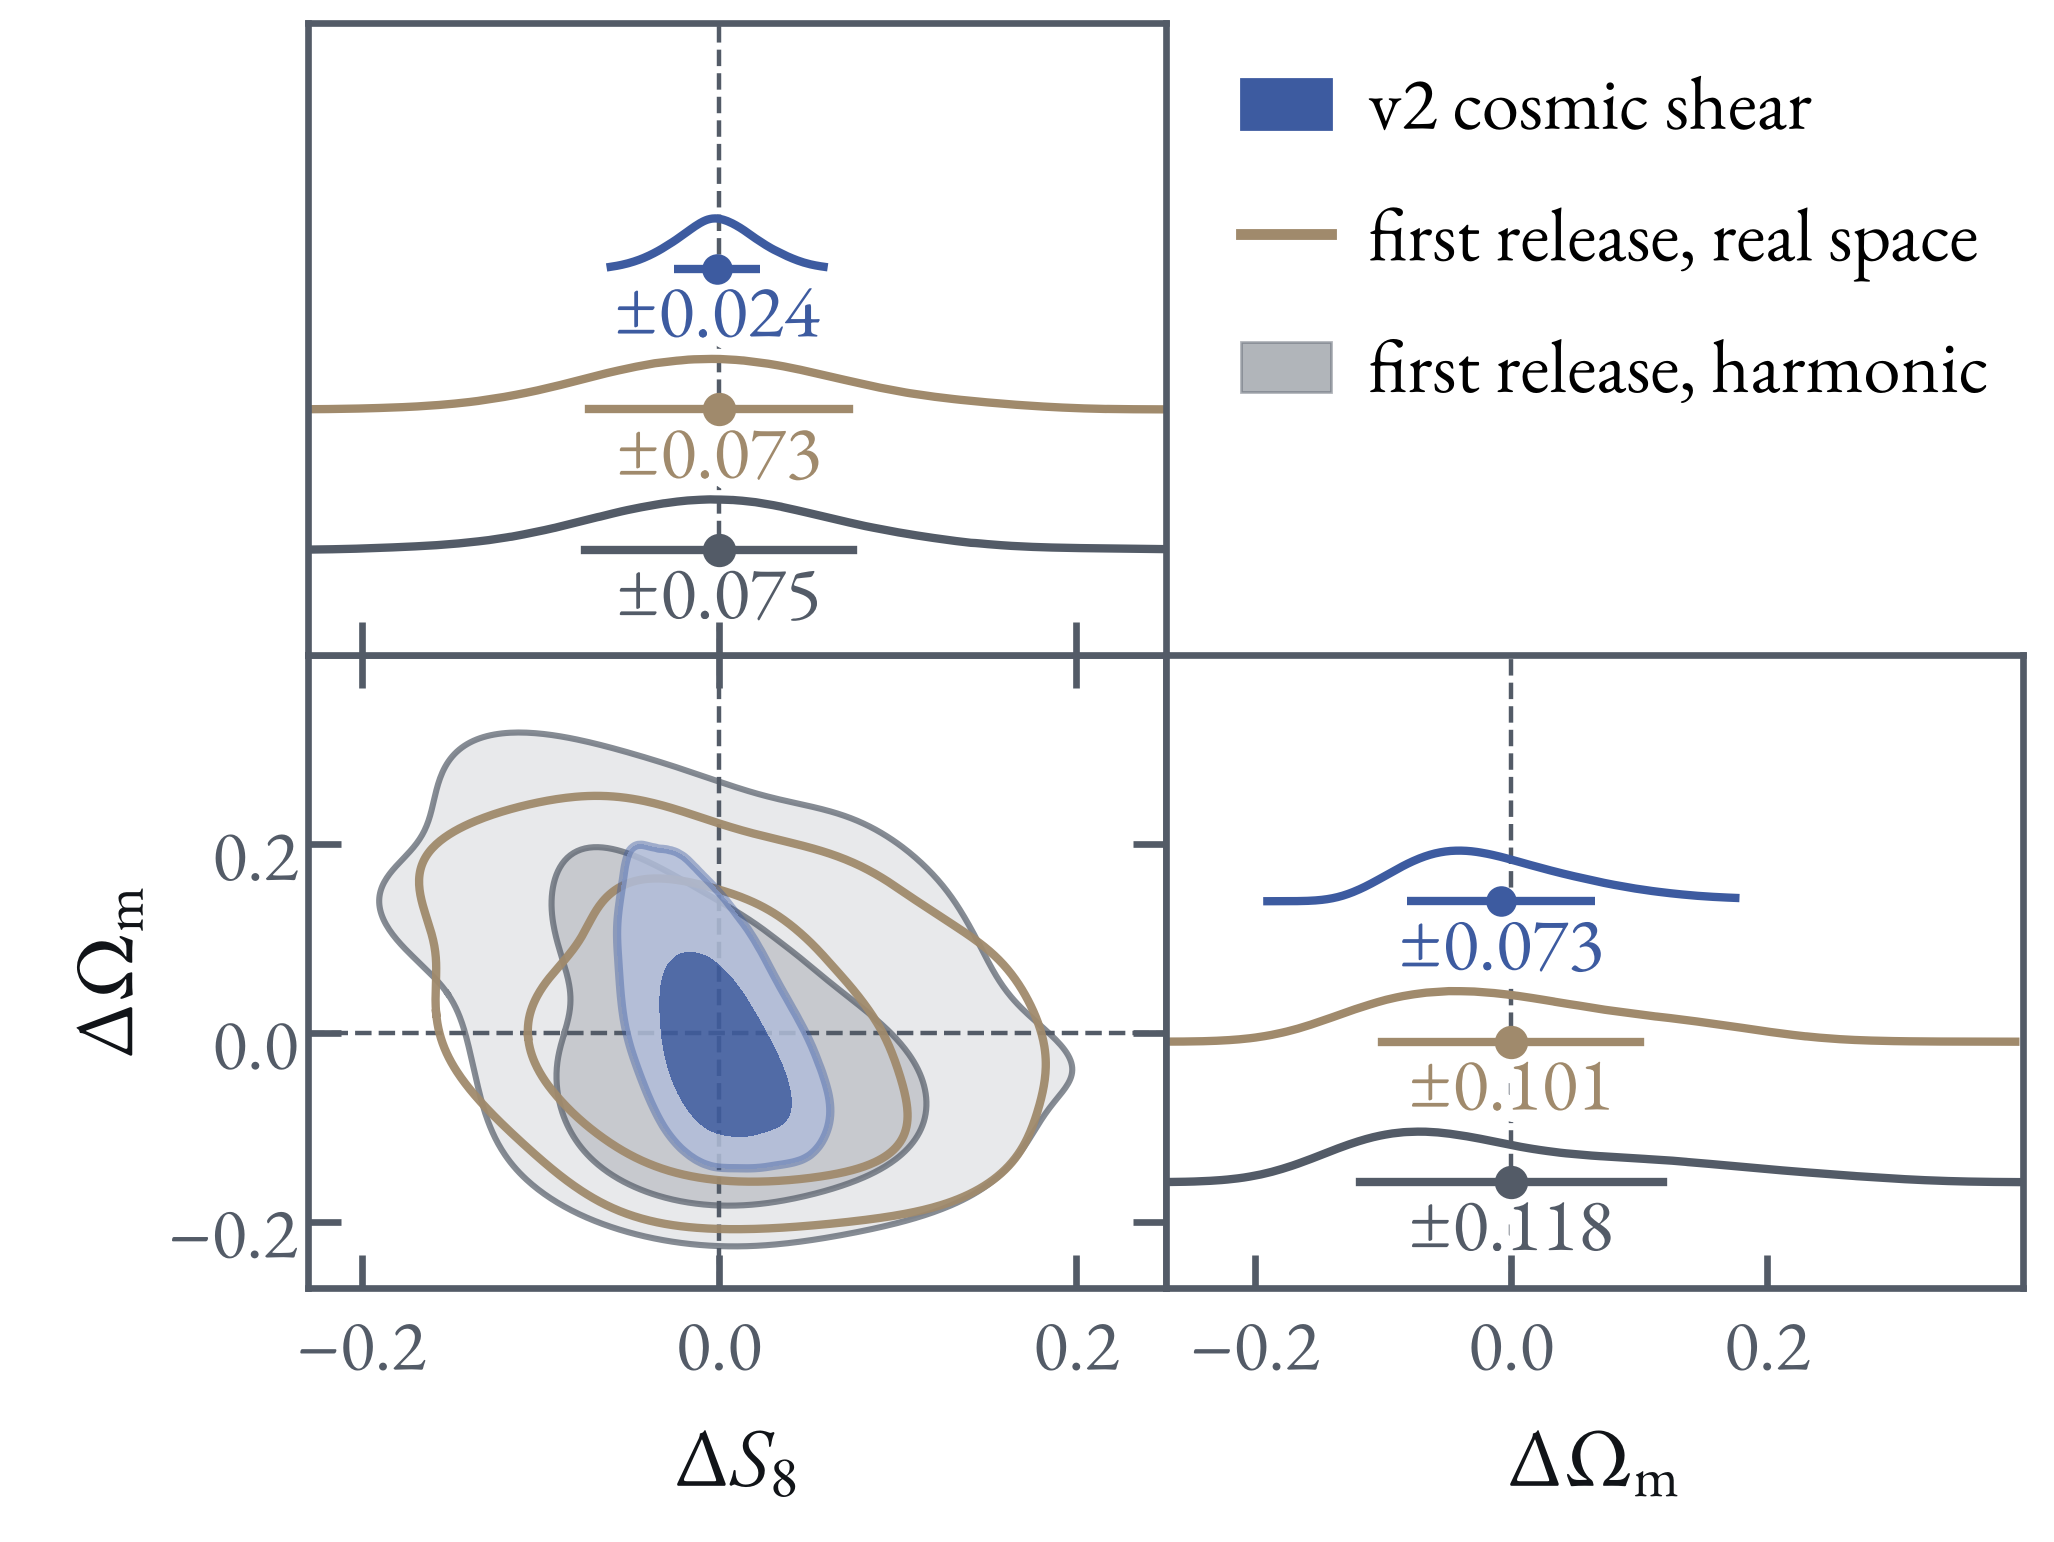
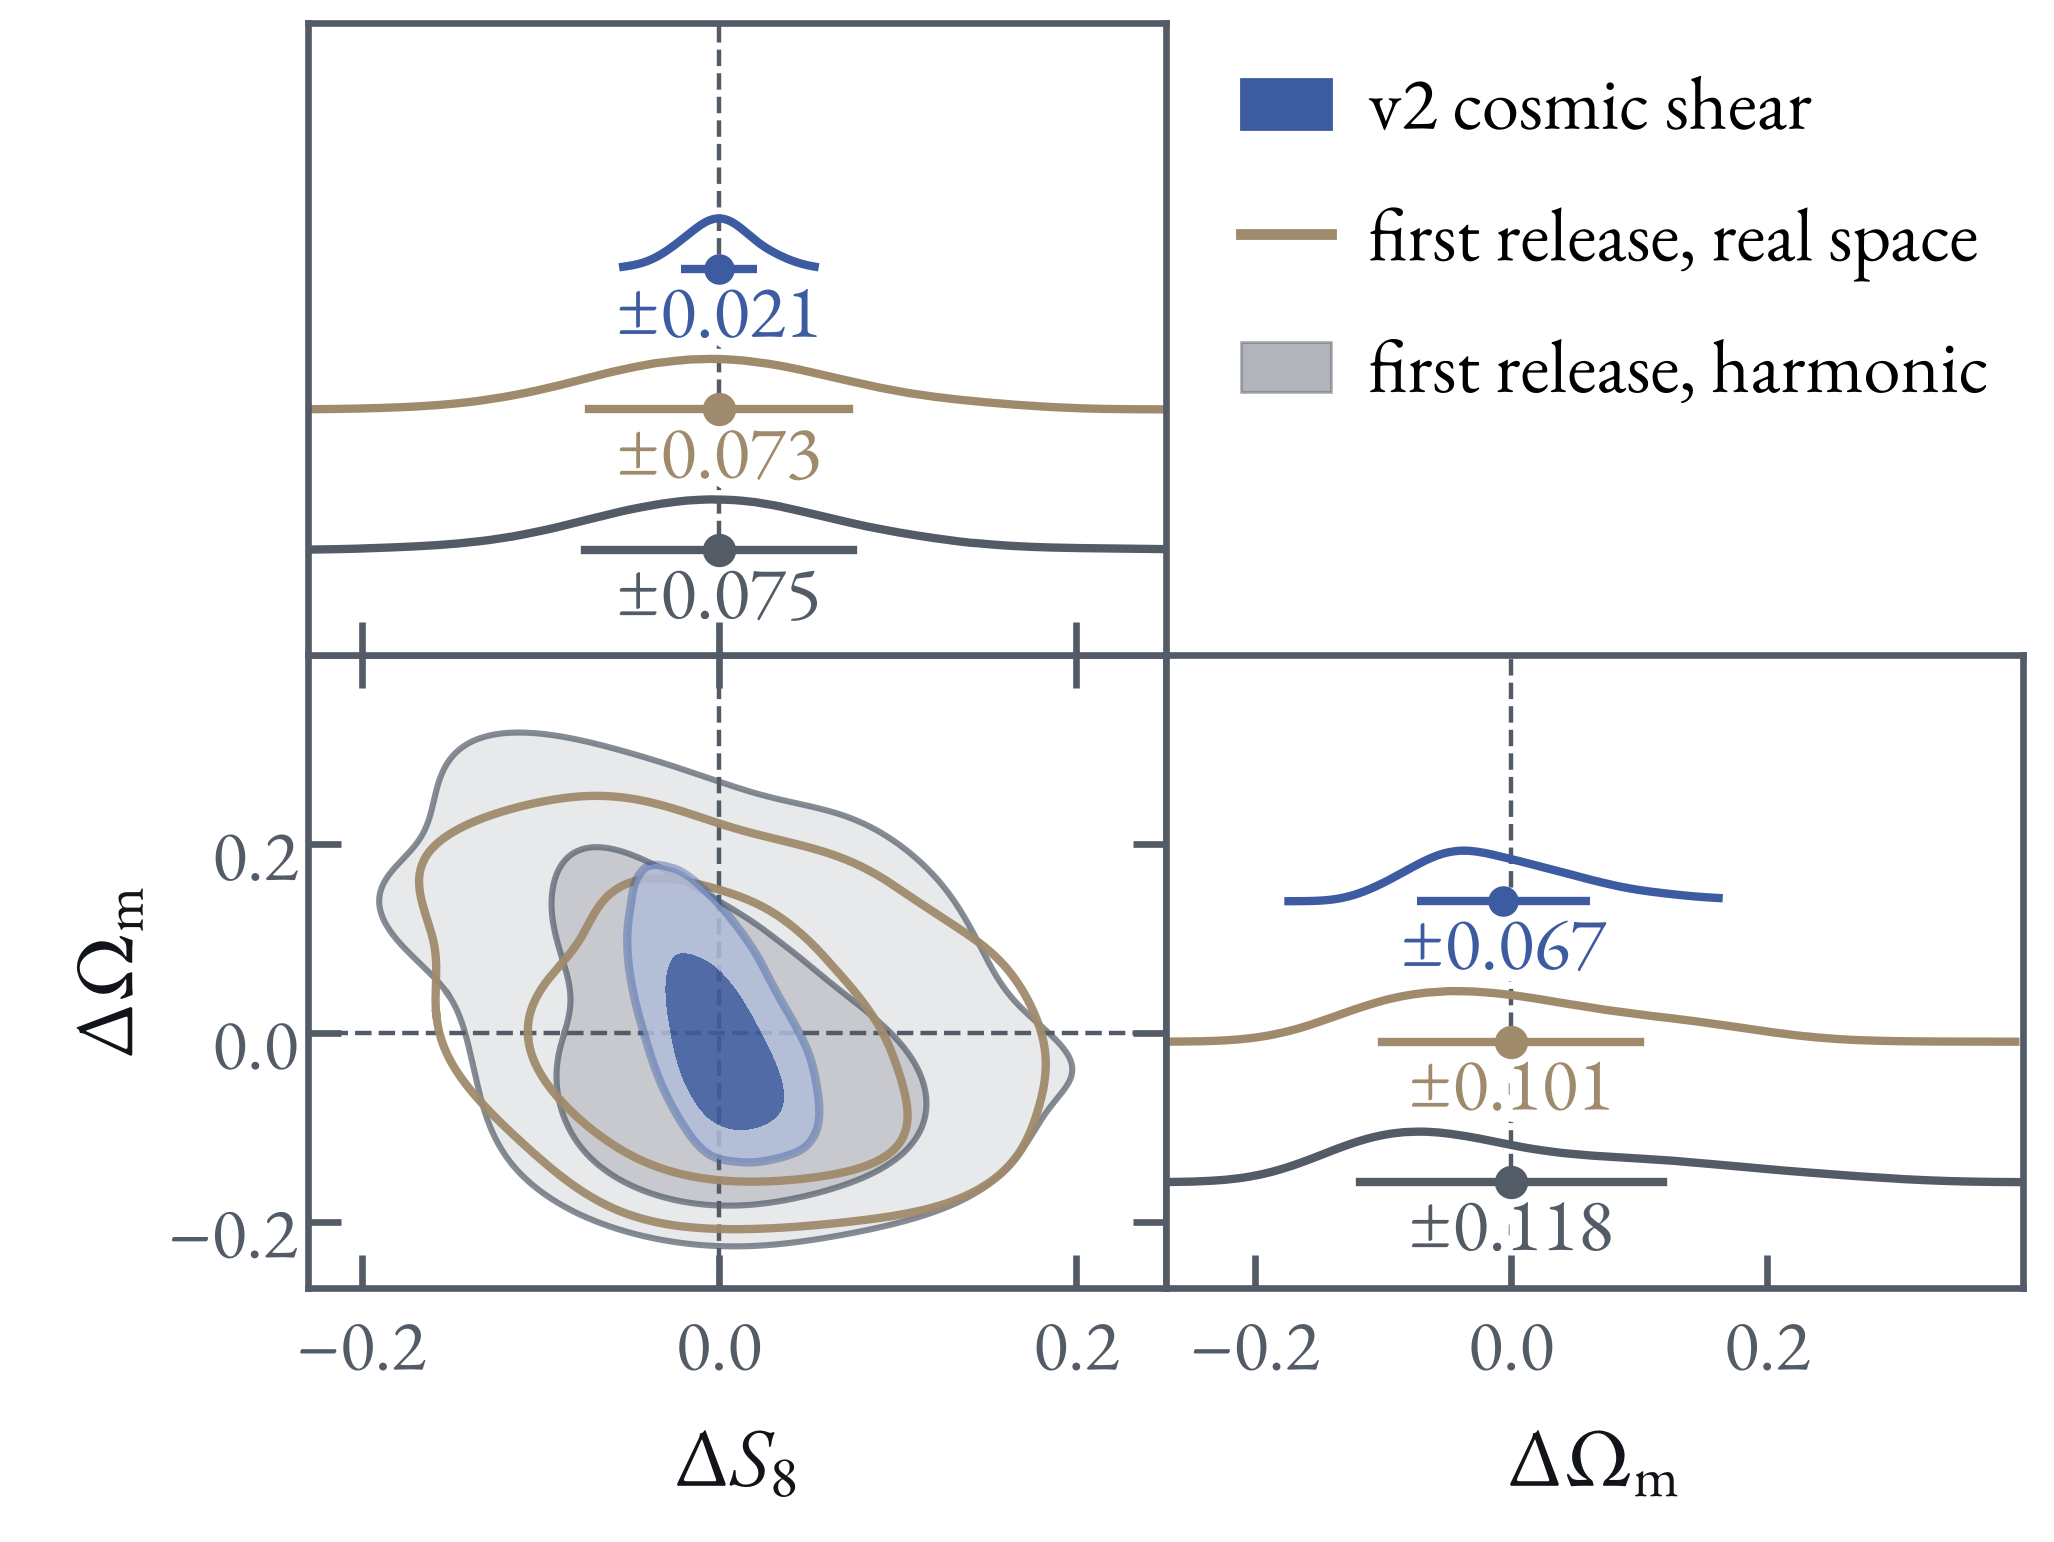
ICE unions-forecast: the release's n(z) uncertainties as the source-redshift prior (2.0 % on S8); bullets say so
Claude-Session: https://claude.ai/code/session_01JK7o9HFnQ18NCbHtympTx9

diff --git a/2611_ICE_Barcelona/slides/unions-forecast.html b/2611_ICE_Barcelona/slides/unions-forecast.html
@@ -1,5 +1,5 @@
 <section data-layout="figure-text" data-split="60">
-  <h2>UNIONS 3×2pt is forecast to measure $S_8$ to 2.4 %</h2>
+  <h2>UNIONS 3×2pt is forecast to measure $S_8$ to 2.0 %</h2>
   <figure>
     <img src="images/ice_unions_forecast_0.png" alt="S8 against Omega_m for the first UNIONS release, in harmonic space and in real space: two wide contours of similar size, about 0.07 wide in S8">
     <img class="fragment" data-fragment-index="1" src="images/ice_unions_forecast_1.png" alt="The forecast for UNIONS v2 tomographic cosmic shear drawn over them, about three times narrower in S8">
@@ -8,14 +8,14 @@
   <div class="text">
     <ul>
       <li>assuming 100 % of shear weight used for tomography</li>
-      <li>relatively conservative priors</li>
+      <li>optimistic $n(z)$ errors and conservative baryon prior</li>
     </ul>
   </div>
   <aside class="notes">
     <ul class="skim">
       <li><strong>Contours</strong> — 68 % and 95 % of chains run on the model prediction itself: no noise is added to the data vector, so the posterior sits on the input cosmology ($S_8=0.839$, $\Omega_\mathrm{m}=0.319$, the origin of both axes) and its width is the expected error, which the covariance sets. No data vector is measured or looked at. Four tomographic source bins on 4,582 deg², alone and then with the five SPHEREx all-sky lens bins at $z=0.05$–$0.55$.</li>
-      <li><strong>Drawn</strong> — the four source bins carry the whole v2 sample's shear weight: each bin's density is multiplied by 1/0.54, so $n_{\rm eff}$ sums to 7.6 arcmin⁻² instead of 4.08, with the same $n(z)$ per bin. Shear alone $\sigma(S_8)=0.0239$, $\sigma(\Omega_\mathrm{m})=0.073$, $\sigma(\sigma_8)=0.107$. 3×2pt 0.0200, 0.0352, 0.058, which is 2.4 % on $S_8$. One sampler seed, 16,000 effective samples each (26 November, fir).</li>
-      <li><strong>With the bins' own densities</strong> — every other number in these notes: shear alone $\sigma(S_8)=0.0278$, $\sigma(\Omega_\mathrm{m})=0.098$, $\sigma(\sigma_8)=0.127$. 3×2pt 0.0218, 0.0379, 0.061 (2.6 %). A second sampler seed gives 0.0273 and 0.098, and 0.0215 and 0.0381, with 16,000 effective samples each. The $\Omega_\mathrm{m}$–$S_8$ figure of merit ($1/\sqrt{\det C}$) rises by a factor 3.0. The shear-only $\Omega_\mathrm{m}$ width is largely the prior's, so the gain on $\Omega_\mathrm{m}$ depends on it: $h<0.91$, $\ln(10^{10}A_s)<3.66$ and $0.085<\Omega_c h^2<0.2$ all cut that posterior. They do not cut the 3×2pt one.</li>
+      <li><strong>Drawn</strong> — the four source bins carry the whole v2 sample's shear weight: each bin's density is multiplied by 1/0.54, so $n_{\rm eff}$ sums to 7.6 arcmin⁻² instead of 4.08, with the same $n(z)$ per bin. The prior on each source bin's mean redshift is the release's own uncertainty from its 2,000 $n(z)$ realizations (0.010, 0.006, 0.011, 0.012), which the release calls a floor: one calibration field, no variance between fields. Shear alone $\sigma(S_8)=0.0215$, $\sigma(\Omega_\mathrm{m})=0.067$, $\sigma(\sigma_8)=0.099$. 3×2pt 0.0171, 0.0340, 0.055, which is 2.0 % on $S_8$. With the 0.024 redshift prior and the whole shear weight: shear alone 0.0239, 0.073, 0.107, and 3×2pt 0.0200, 0.0352, 0.058 (2.4 %). One sampler seed, 16,000 effective samples each (26 November, fir).</li>
+      <li><strong>With the bins' own densities and the 0.024 redshift prior</strong> — every other number in these notes: shear alone $\sigma(S_8)=0.0278$, $\sigma(\Omega_\mathrm{m})=0.098$, $\sigma(\sigma_8)=0.127$. 3×2pt 0.0218, 0.0379, 0.061 (2.6 %). A second sampler seed gives 0.0273 and 0.098, and 0.0215 and 0.0381, with 16,000 effective samples each. The $\Omega_\mathrm{m}$–$S_8$ figure of merit ($1/\sqrt{\det C}$) rises by a factor 3.0. The shear-only $\Omega_\mathrm{m}$ width is largely the prior's, so the gain on $\Omega_\mathrm{m}$ depends on it: $h<0.91$, $\ln(10^{10}A_s)<3.66$ and $0.085<\Omega_c h^2<0.2$ all cut that posterior. They do not cut the 3×2pt one.</li>
       <li><strong>With noise</strong> — twenty GLASS mocks (lognormal matter shells, lensing, intrinsic alignments, Poisson-sampled lenses, shape noise) measured with the same masked estimator and fitted with the same chain. The median width is 0.0220 on $S_8$ and 0.0386 on $\Omega_\mathrm{m}$, as forecast. The posterior means average $S_8=0.844\pm0.003$ and $\Omega_\mathrm{m}=0.321\pm0.009$ and scatter by 0.014 and 0.038; no mock is further than 1.7σ from the input. On one sky the $\Omega_\mathrm{m}$ width ranges from 0.030 to 0.060.</li>
       <li><strong>Scale cuts</strong> — shear uses $300<\ell<1600$, the cut on which the first release has B-modes consistent with zero. At $20<\ell<2000$ the 3×2pt gives 0.0211 and 0.0330, so its width changes by 3 % on $S_8$ and 13 % on $\Omega_\mathrm{m}$; the lenses already supply the large-scale information. Shear alone at that cut gives 0.0235 and 0.054, and at $100<\ell<1600$ 0.0274 and 0.070 (3×2pt 0.0214 and 0.035).</li>
       <li><strong>Limits on $S_8$</strong> — baryons first: with the feedback parameter $\log T_{\rm AGN}$ fixed, $\sigma(S_8)$ is 0.016 instead of 0.0218. Its prior is flat over the emulator's whole range (7.3–8.5) and the chain fills it, so 2.6 % is conservative there. Fixing intrinsic alignments, shear calibration, redshift shifts and magnification instead, with baryons and bias still free, gives 0.016. Most of that is source redshifts: the release's own n(z) realizations (0.006–0.012 on each bin's mean, against our 0.024) give 0.019. Halving the shear-calibration prior gives 0.021, and a Planck-width $n_s$ prior leaves the width unchanged.</li>
@@ -38,7 +38,7 @@
     <p>Calum Murray's Fisher code, given these inputs and priors, returns 0.0208 on $S_8$ and 0.0326 on $\Omega_\mathrm{m}$ (his review of 25 November), against our Fisher 0.0195 and 0.0334; its June headline of 0.0125 and 0.0152 fixed $h$, $n_s$ and $\Omega_b$ and used different sources, cuts and baryons. The earlier GLASS mock chain in real space, with stand-in lens bins and no nuisances, gave 0.0093 and 0.021. The Fisher forecast made for choosing the v2 n(z), cosmic shear alone with redshift priors near 0.01–0.02, gives 0.0113–0.0132 on $S_8$; its baryon treatment and scale range were not checked.</p>
     </details>
     <details><summary>Sources</summary>
-    <p>Figure 2611_ICE_Barcelona/make_unions_forecast.py; the first release from unions_release_contours.json, made by digitize_unions_release.py from the arXiv source of 2605.13543; summary in unions_forecast.json (v092f100_* are the chains drawn, v092f_* the same with the bins' own densities, glass_* the GLASS mocks, mockg_* the Gaussian skies, unprefixed names the Leonardo set); chains of 25 November on fir, JAX CLOE likelihood with nested sampling, 10 minutes on 64 threads for the 3×2pt and 3 for shear alone. Code and recipe in the felt fiber unions-3x2pt-forecast, code/README.</p>
+    <p>Figure 2611_ICE_Barcelona/make_unions_forecast.py; the first release from unions_release_contours.json, made by digitize_unions_release.py from the arXiv source of 2605.13543; summary in unions_forecast.json (v092f100_*_dzrel_* are the chains drawn, v092f100_*_hi_* the same with the 0.024 redshift prior, v092f_* the same with the bins' own densities, glass_* the GLASS mocks, mockg_* the Gaussian skies, unprefixed names the Leonardo set); chains of 25 November on fir, JAX CLOE likelihood with nested sampling, 10 minutes on 64 threads for the 3×2pt and 3 for shear alone. Code and recipe in the felt fiber unions-3x2pt-forecast, code/README.</p>
     </details>
   </aside>
 </section>

diff --git a/2611_ICE_Barcelona/make_unions_forecast.py b/2611_ICE_Barcelona/make_unions_forecast.py
@@ -1,9 +1,10 @@
 """UNIONS v2 forecast in the (Omega_m, S8) plane: cosmic shear alone, then the 3x2pt with the LSx lenses.
 
 Reads the nested-sampling posteriors (slim_fir.npz: derived parameters and weights of each chain). The two drawn are
-chains on the model prediction with no noise added, run on fir (~/scratch/ufc there): v092f100_first_LL_hi_s1 and
-v092f100_first_3x2_hi_s1, in which the four source bins carry the whole v2 sample's shear weight (their densities
-times 1/0.54, as the slide's first bullet says). The v092f_* chains have the bins' own densities. Names without a prefix are the 25 November chains from Leonardo, mockg_* chains on noisy Gaussian
+chains on the model prediction with no noise added, run on fir (~/scratch/ufc there): v092f100_first_LL_dzrel_s1 and
+v092f100_first_3x2_dzrel_s1, in which the four source bins carry the whole v2 sample's shear weight (their densities
+times 1/0.54) and the prior on each bin's mean redshift is the release's own n(z) uncertainty, as the slide's bullets
+say. v092f100_*_hi_* keep the 0.024 redshift prior; the v092f_* chains also have the bins' own densities. Names without a prefix are the 25 November chains from Leonardo, mockg_* chains on noisy Gaussian
 skies and glass_* chains on GLASS mocks.
 The contours are drawn relative to the input cosmology. Under them are the first release's posteriors in harmonic
 and real space (unions_release_contours.json, read from the paper's figure by digitize_unions_release.py), each shifted
@@ -29,7 +30,7 @@ SHEAR, JOINT = '#3D5BA0', '#A8403A'
 TRUTH = dict(Omega_m=0.3190, S8=0.8387)
 RELEASES = [('harmonic', 'first release, harmonic', style.MUTED, True),
             ('real', 'first release, real space', '#A08A6C', False)]
-LAYERS = [('v092f100_first_LL_hi_s1', 'v2 cosmic shear', SHEAR), ('v092f100_first_3x2_hi_s1', 'v2 3×2pt', JOINT)]
+LAYERS = [('v092f100_first_LL_dzrel_s1', 'v2 cosmic shear', SHEAR), ('v092f100_first_3x2_dzrel_s1', 'v2 3×2pt', JOINT)]
 PEAK = .36     # height of a marginal density in units of the row spacing, which leaves air above each curve
 SMOOTH = 5.   # degrees: width of the smoothing of a digitized contour around its centre
 
